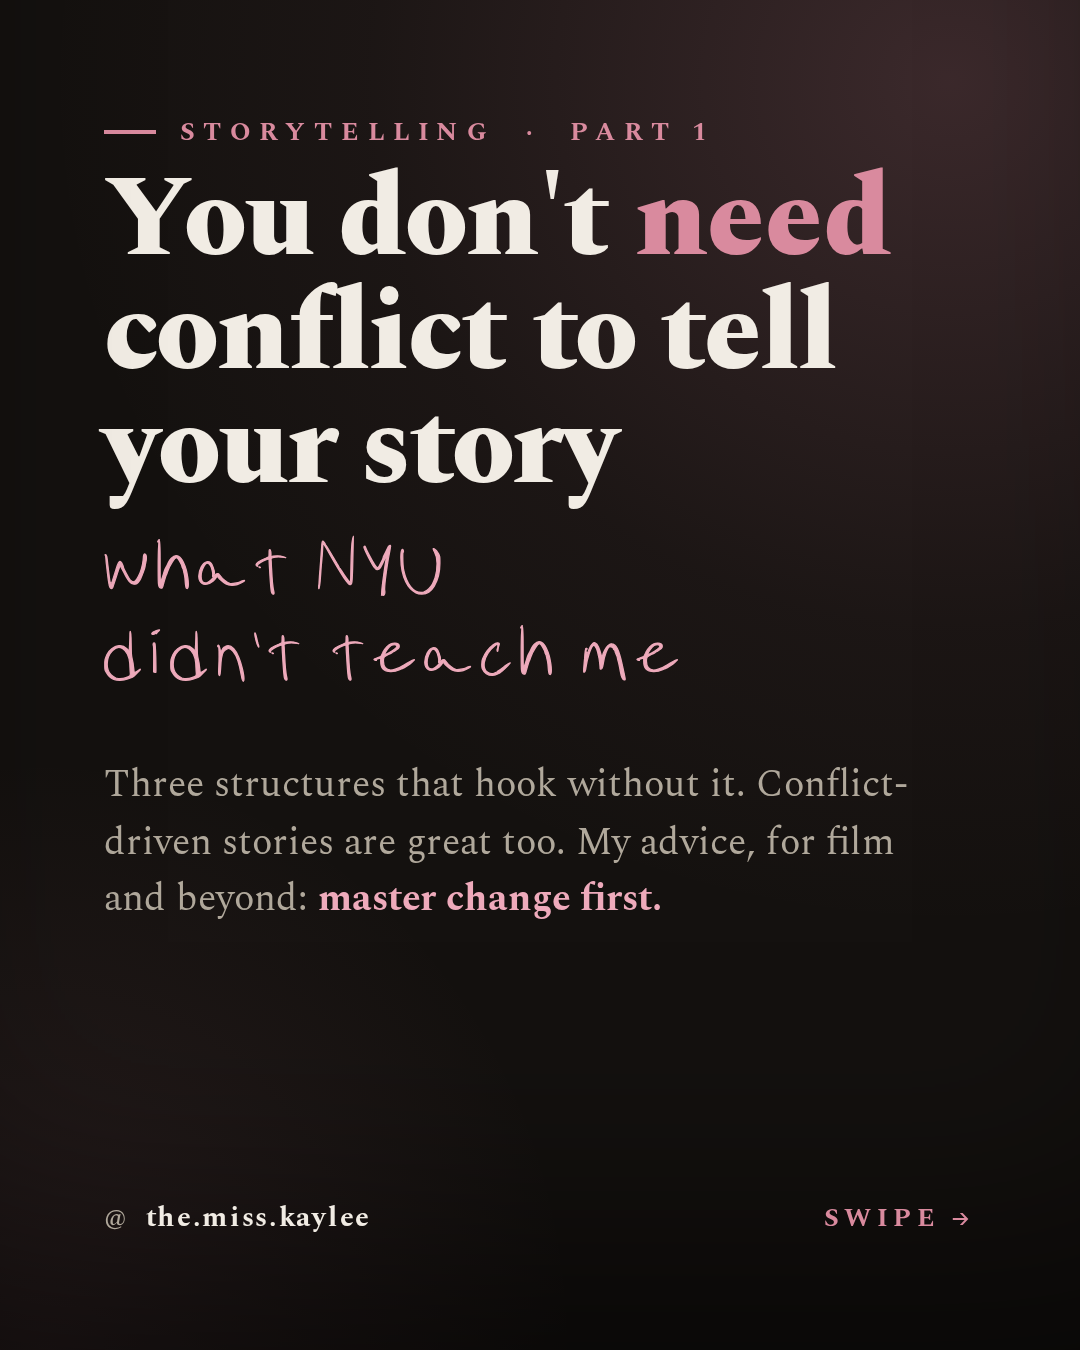
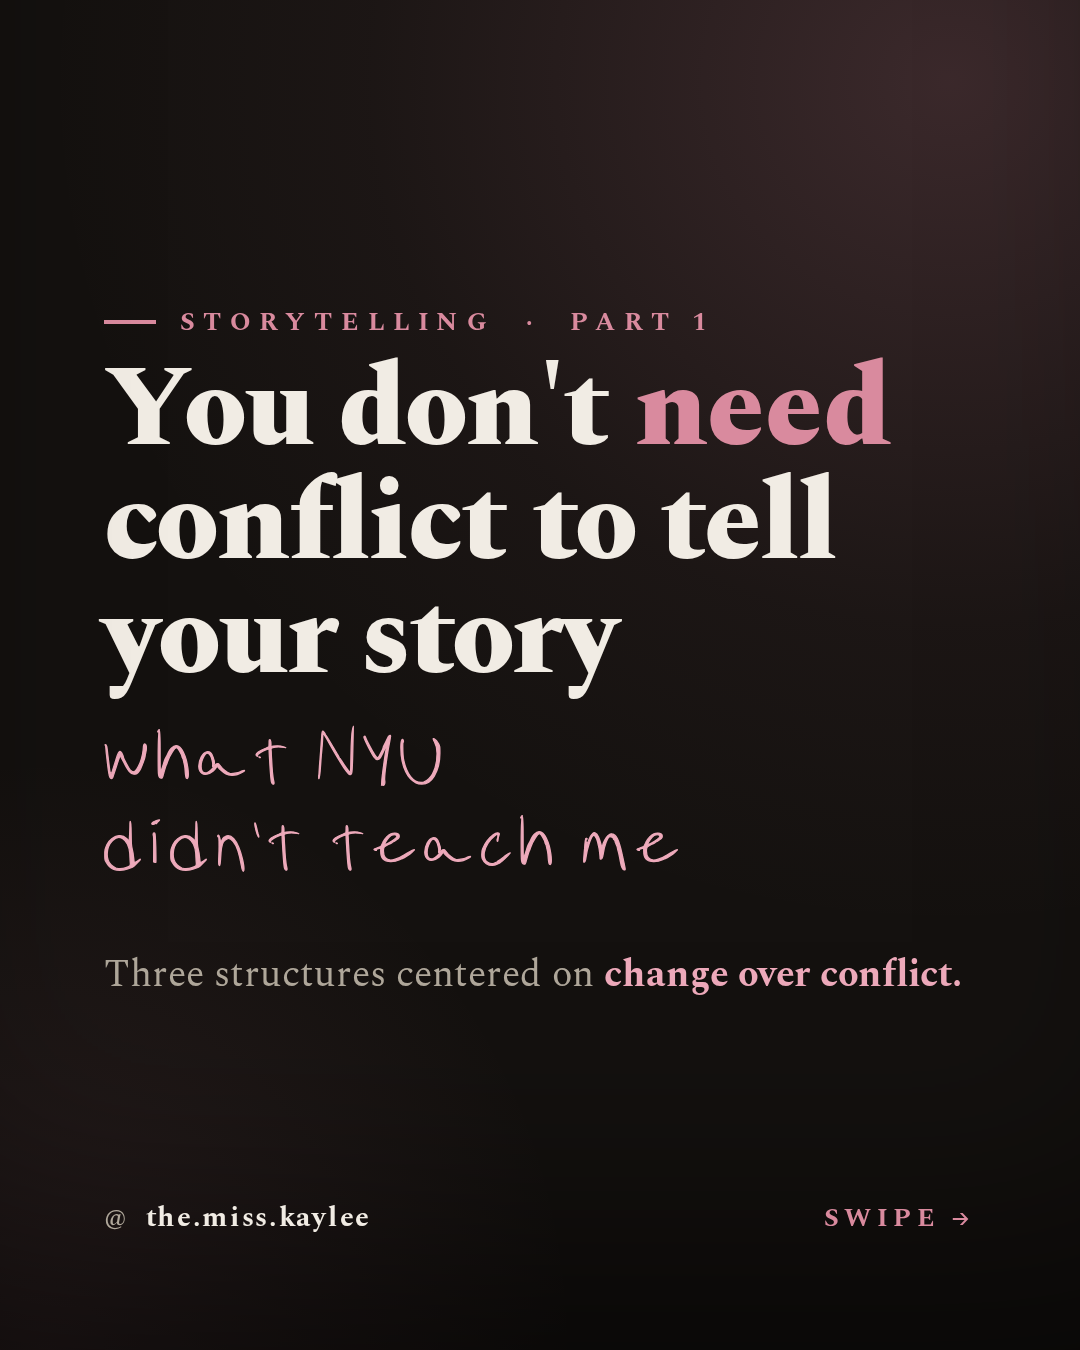
Carousel: cover subline + rebalance spacing
- Cover subline -> 'Three structures centered on change over conflict'
- Vertically center each slide's content (even whitespace top/bottom)
- Add breathing room between kicker and numeral on structure slides

diff --git a/scripts/ig-carousel/slide-04-mastery.html b/scripts/ig-carousel/slide-04-mastery.html
@@ -2,17 +2,18 @@
 <link rel="stylesheet" href="carousel.css"></head>
 <body>
 <div class="slide structure" data-ref="slide-mastery">
-  <div class="kicker">Structure No. 03</div>
-  <div class="num">03</div>
-  <div class="name">Mastery Narrative</div>
-  <div class="tag">the same task, again</div>
-  <p class="def">Repeat a task until the person changes or masters it. All about growth, and so <b>tune-in with the five senses</b>. A late twist or POV flip is optional.</p>
-  <div class="ex">
-    <div class="exrow"><span class="extag">Film</span><span class="extxt"><b>Perfect Days</b> (2023), a routine repeated until it glows</span></div>
-    <div class="exrow"><span class="extag">Film</span><span class="extxt"><b>Jiro Dreams of Sushi</b> (2011), a lifetime on one craft</span></div>
-    <div class="exrow"><span class="extag alt">Book</span><span class="extxt"><b>Zen in the Art of Archery</b>, Eugen Herrigel</span></div>
+  <div class="main">
+    <div class="kicker">Structure No. 03</div>
+    <div class="num">03</div>
+    <div class="name">Mastery Narrative</div>
+    <div class="tag">the same task, again</div>
+    <p class="def">Repeat a task until the person changes or masters it. All about growth, and so <b>tune-in with the five senses</b>. A late twist or POV flip is optional.</p>
+    <div class="ex">
+      <div class="exrow"><span class="extag">Film</span><span class="extxt"><b>Perfect Days</b> (2023), a routine repeated until it glows</span></div>
+      <div class="exrow"><span class="extag">Film</span><span class="extxt"><b>Jiro Dreams of Sushi</b> (2011), a lifetime on one craft</span></div>
+      <div class="exrow"><span class="extag alt">Book</span><span class="extxt"><b>Zen in the Art of Archery</b>, Eugen Herrigel</span></div>
+    </div>
   </div>
-  <div class="spacer"></div>
   <div class="footer"><span class="handle">@<b>the.miss.kaylee</b></span><span class="swipe">Swipe →</span></div>
 </div>
 </body></html>

diff --git a/scripts/ig-carousel/slide-02-daisychain.html b/scripts/ig-carousel/slide-02-daisychain.html
@@ -2,17 +2,18 @@
 <link rel="stylesheet" href="carousel.css"></head>
 <body>
 <div class="slide structure" data-ref="slide-daisychain">
-  <div class="kicker">Structure No. 01</div>
-  <div class="num">01</div>
-  <div class="name">Daisy Chain</div>
-  <div class="tag">follow the thread</div>
-  <p class="def">Follow one object, idea, or place as it passes through different lives. A <b>conflict-less plot</b> where the thread itself is the story.</p>
-  <div class="ex">
-    <div class="exrow"><span class="extag">Film</span><span class="extxt"><b>The Red Violin</b> (1998), one violin through many owners</span></div>
-    <div class="exrow"><span class="extag">Film</span><span class="extxt"><b>Twenty Bucks</b> (1993), a $20 bill passed hand to hand</span></div>
-    <div class="exrow"><span class="extag alt">Book</span><span class="extxt"><b>Let the Great World Spin</b>, Colum McCann</span></div>
+  <div class="main">
+    <div class="kicker">Structure No. 01</div>
+    <div class="num">01</div>
+    <div class="name">Daisy Chain</div>
+    <div class="tag">follow the thread</div>
+    <p class="def">Follow one object, idea, or place as it passes through different lives. A <b>conflict-less plot</b> where the thread itself is the story.</p>
+    <div class="ex">
+      <div class="exrow"><span class="extag">Film</span><span class="extxt"><b>The Red Violin</b> (1998), one violin through many owners</span></div>
+      <div class="exrow"><span class="extag">Film</span><span class="extxt"><b>Twenty Bucks</b> (1993), a $20 bill passed hand to hand</span></div>
+      <div class="exrow"><span class="extag alt">Book</span><span class="extxt"><b>Let the Great World Spin</b>, Colum McCann</span></div>
+    </div>
   </div>
-  <div class="spacer"></div>
   <div class="footer"><span class="handle">@<b>the.miss.kaylee</b></span><span class="swipe">Swipe →</span></div>
 </div>
 </body></html>

diff --git a/scripts/ig-carousel/slide-03-sliceoflife.html b/scripts/ig-carousel/slide-03-sliceoflife.html
@@ -2,17 +2,18 @@
 <link rel="stylesheet" href="carousel.css"></head>
 <body>
 <div class="slide structure" data-ref="slide-sliceoflife">
-  <div class="kicker">Structure No. 02</div>
-  <div class="num">02</div>
-  <div class="name">Slice of Life</div>
-  <div class="tag">sit in the moment</div>
-  <p class="def">Focus on ONE mood, moment, or atmosphere and develop it instead of changing it. Observational, conflict-less, and perfect for <b>poetry</b>.</p>
-  <div class="ex">
-    <div class="exrow"><span class="extag">Film</span><span class="extxt"><b>Paterson</b> (2016), a week of small, ordinary days</span></div>
-    <div class="exrow"><span class="extag">Film</span><span class="extxt"><b>Lost in Translation</b> (2003), mood over plot</span></div>
-    <div class="exrow"><span class="extag alt">Poetry</span><span class="extxt"><b>Mary Oliver</b>, attention IS the whole event</span></div>
+  <div class="main">
+    <div class="kicker">Structure No. 02</div>
+    <div class="num">02</div>
+    <div class="name">Slice of Life</div>
+    <div class="tag">sit in the moment</div>
+    <p class="def">Focus on ONE mood, moment, or atmosphere and develop it instead of changing it. Observational, conflict-less, and perfect for <b>poetry</b>.</p>
+    <div class="ex">
+      <div class="exrow"><span class="extag">Film</span><span class="extxt"><b>Paterson</b> (2016), a week of small, ordinary days</span></div>
+      <div class="exrow"><span class="extag">Film</span><span class="extxt"><b>Lost in Translation</b> (2003), mood over plot</span></div>
+      <div class="exrow"><span class="extag alt">Poetry</span><span class="extxt"><b>Mary Oliver</b>, attention IS the whole event</span></div>
+    </div>
   </div>
-  <div class="spacer"></div>
   <div class="footer"><span class="handle">@<b>the.miss.kaylee</b></span><span class="swipe">Swipe →</span></div>
 </div>
 </body></html>

diff --git a/scripts/ig-carousel/carousel.css b/scripts/ig-carousel/carousel.css
@@ -33,6 +33,7 @@ html,body{background:#2a2622;-webkit-font-smoothing:antialiased;}
   box-shadow:inset 0 -120px 120px -60px rgba(0,0,0,0.55);}
 
 /* shared bits ------------------------------------------------------------- */
+.main{flex:1 1 auto;display:flex;flex-direction:column;justify-content:center;min-height:0;}
 .kicker{font-weight:700;font-size:13px;letter-spacing:0.34em;text-transform:uppercase;
   color:var(--accent);display:flex;align-items:center;gap:12px;}
 .kicker::before{content:'';width:26px;height:2px;background:var(--accent);display:inline-block;}
@@ -80,9 +81,10 @@ html,body{background:#2a2622;-webkit-font-smoothing:antialiased;}
 /* ===== LAYOUT B2 — STRUCTURE + EXAMPLES ================================= */
 .hot{color:var(--rose);font-weight:600;}
 .structure .num{font-family:'Spectral';font-weight:800;font-size:94px;line-height:0.78;
-  color:transparent;-webkit-text-stroke:2px var(--accent);letter-spacing:-0.02em;opacity:0.9;}
+  color:transparent;-webkit-text-stroke:2px var(--accent);letter-spacing:-0.02em;opacity:0.9;
+  margin-top:18px;}
 .structure .name{font-family:'Spectral';font-weight:800;font-size:41px;line-height:1.0;
-  letter-spacing:-0.01em;color:var(--ink);margin-top:8px;}
+  letter-spacing:-0.01em;color:var(--ink);margin-top:12px;}
 .structure .tag{font-family:'Kaylee Script',cursive;color:var(--rose);
   -webkit-text-stroke:0.5px var(--rose);font-size:27px;line-height:1;margin-top:8px;}
 .structure .def{font-size:16.5px;line-height:1.42;color:var(--ink-soft);margin-top:16px;max-width:442px;}

diff --git a/scripts/ig-carousel/slide-05-takeaway.html b/scripts/ig-carousel/slide-05-takeaway.html
@@ -2,10 +2,11 @@
 <link rel="stylesheet" href="carousel.css"></head>
 <body>
 <div class="slide quote" data-ref="slide-takeaway">
-  <div class="mark">&ldquo;</div>
-  <div class="q">A story can do without <span class="em">conflict</span>, but it can't do without change.</div>
-  <p class="note">Conflict-driven stories are great. But master <b>change</b> first. A story is about change; conflict is just what keeps the audience <b>HOOKED</b>.</p>
-  <div class="spacer"></div>
+  <div class="main">
+    <div class="mark">&ldquo;</div>
+    <div class="q">A story can do without <span class="em">conflict</span>, but it can't do without change.</div>
+    <p class="note">Conflict-driven stories are great. But master <b>change</b> first. A story is about change; conflict is just what keeps the audience <b>HOOKED</b>.</p>
+  </div>
   <div class="footer">
     <img class="portrait" src="kaylee-headshot.jpg" alt="Kaylee Renaud">
     <span class="handle" style="margin-left:12px">Follow for more craft notes<br><b>@the.miss.kaylee &nbsp;·&nbsp; kayleerenaud.com</b></span>

diff --git a/scripts/ig-carousel/slide-01-cover.html b/scripts/ig-carousel/slide-01-cover.html
@@ -2,11 +2,12 @@
 <link rel="stylesheet" href="carousel.css"></head>
 <body>
 <div class="slide cover" data-ref="slide-cover">
-  <div class="kicker">Storytelling &nbsp;·&nbsp; Part 1</div>
-  <div class="headline">You don't <span class="em">need</span> conflict to tell your story</div>
-  <span class="flourish">what NYU<br>didn't teach me</span>
-  <p class="sub">Three structures that hook without it. Conflict-driven stories are great too. My advice, for film and beyond: <b>master change first.</b></p>
-  <div class="spacer"></div>
+  <div class="main">
+    <div class="kicker">Storytelling &nbsp;·&nbsp; Part 1</div>
+    <div class="headline">You don't <span class="em">need</span> conflict to tell your story</div>
+    <span class="flourish">what NYU<br>didn't teach me</span>
+    <p class="sub">Three structures centered on <b>change over conflict.</b></p>
+  </div>
   <div class="footer">
     <span class="handle">@<b>the.miss.kaylee</b></span>
     <span class="swipe">Swipe →</span>
